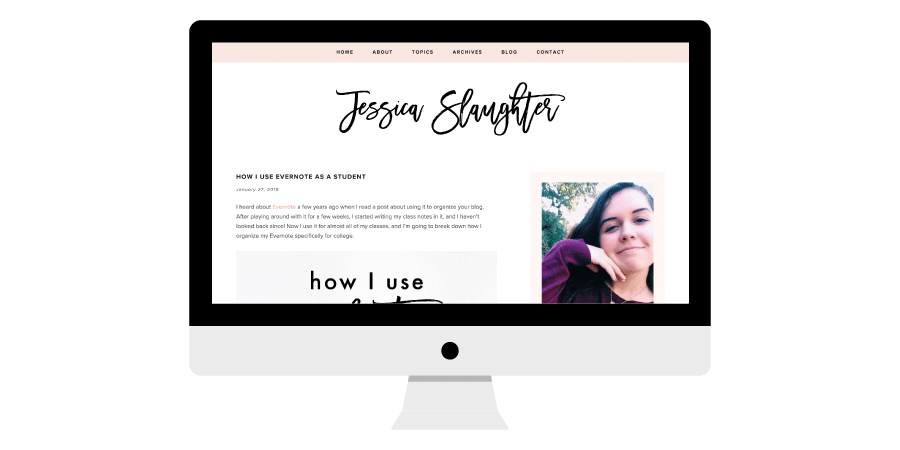
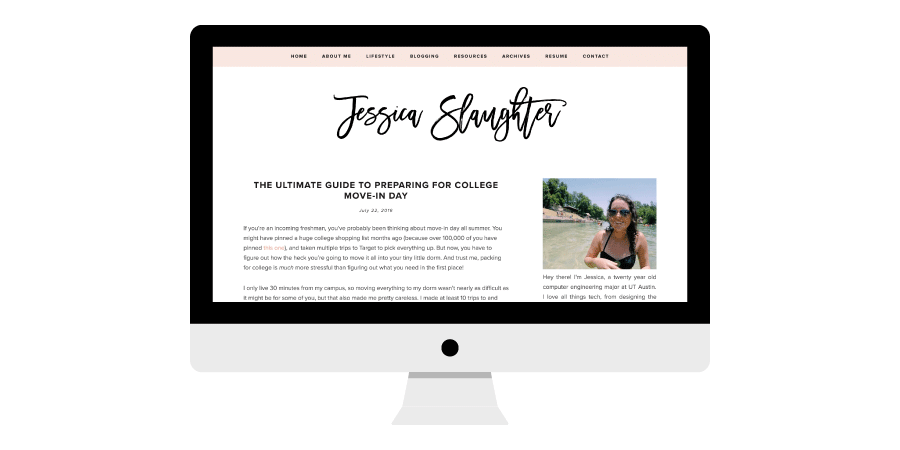
changed color scheme, updated info

diff --git a/index.html b/index.html
@@ -36,7 +36,7 @@
                     <li><div class="grow"><a href="http://instagram.com/jessicaslaughter" target="_blank"><i class="fa fa-instagram"></i></a></div></li>
                     <li><div class="grow"><a href="http://pinterest.com/jessslaughter_" target="_blank"><i class="fa fa-pinterest-p"></i></a></div></li>
                     <li><div class="grow"><a href="https://www.linkedin.com/in/jessicaslaughter" target="_blank"><i class="fa fa-linkedin"></i></a></div></li>
-                    <li><div class="grow"><a href="https://www.facebook.com/jessica.slaughter.944" target="_blank"><i class="fa fa-facebook"></i></a></div></li>
+                    <li><div class="grow"><a href="https://www.facebook.com/jessicaslaughterblog" target="_blank"><i class="fa fa-facebook"></i></a></div></li>
                     <li><div class="grow"><a href="/jessicaslaughter.pdf" target="_blank"><i class="fa fa-file-pdf-o"></i></a></div></li>
                     <li><div class="grow"><a href="mailto:jessicaslaughter@utexas.edu" target="_blank"><i class="fa fa-envelope"></i></a></div></li>
                 </ul>
@@ -60,9 +60,9 @@
         <section id="about-me">
             <div class="content">
                 <h2>About Me</h2>
-                <p>Hey there! I'm  Jessica, a third-year Computer Engineering major at UT Austin. I started my journey into coding as a 7th grader taking an intro to HTML class, which is probably why I'm primarily interested in front-end development. When I'm not stressing over which color scheme to use for this website, I love exciting students about entrepreneurship with <a href="http://austin.3daystartup.org/" target="_blank">3 Day Startup Austin</a> as a recruitment lead and attending workshops with the <a href="https://www.facebook.com/groups/dsgncoll/" target="_blank">Design Collective</a> and <a href="http://www.cs.utexas.edu/users/mad/" target="_blank">Mobile App Development</a>. </p>
+                <p>Hey there! I'm Jessica, a third-year Computer Engineering major at UT Austin. I started coding as a curious 7th grader taking an intro to HTML class, which is probably why I'm primarily interested in front-end development and design. Outside of class, I love exciting students about entrepreneurship with <a href="http://austin.3daystartup.org/" target="_blank">3 Day Startup Austin</a> as a recruitment lead and attending workshops with the <a href="https://www.facebook.com/groups/dsgncoll/" target="_blank">Design Collective</a> and <a href="http://www.cs.utexas.edu/users/mad/" target="_blank">Mobile App Development</a>. </p>
                     
-                <p>Along with trying to become <a href="https://jessicaslaughter.github.io/pinterest-progress" target="_blank">Pinterest famous</a>, one of my favorite things to do is help people through my blog-turned-job! I'm currently helping young women be successful in college and start blogs of their own at <a href="http://jessicaslaughter.co" target="_blank">JessicaSlaughter.co</a>.</p>
+                <p>Along with trying to become <a href="https://jessicaslaughter.github.io/pinterest-progress" target="_blank">Pinterest famous</a>, one of my favorite things to do is help people through my blog-turned-job! I'm currently helping young women be successful in college and start blogs of their own at <a href="http://jessicaslaughter.co" target="_blank">JessicaSlaughter.co</a>, a blog I've poured my heart into since the beginning of 2016 and use as a platform to further my skills and creativity.</p>
             </div>
         </section>
         <section id="projects">
@@ -70,7 +70,7 @@
                 <h2>Projects</h2><br>
                 <img src="img/jessicaslaughterblog.png"/>
                 <h3><a href="http://jessicaslaughter.co" target="_blank">JessicaSlaughter.co</a></h3>
-                <p>A merge of an old blog and new interests, I started <a href="http://jessicaslaughter.co" target="_blank">this blog</a> in January 2016 as a more casual environment to share college and lifestyle tips, while continuing to help others start their own blogs! I've since garnered an audience of around 50,000 monthly views and joined networks including <a href="http://collectivelyinc.com/" target="_blank">Collectively</a>, the <a href="http://www.hercampusmedia.com/services/influenceher-collective" target="_blank">InfluenceHer Collective</a>, and the <a href="http://app.joinsocialstars.com/" target="_blank">Socialstars Network</a>.</p>
+                <p>A merge of an old blog and new interests, I started <a href="http://jessicaslaughter.co" target="_blank">this blog</a> in January 2016 as a more casual environment to share college and lifestyle tips, while continuing to help others start their own blogs! I've since garnered an audience of young women around the world providing over 200,000 monthly views, and joined networks including <a href="http://collectivelyinc.com/" target="_blank">Collectively</a>, the <a href="http://www.hercampusmedia.com/services/influenceher-collective" target="_blank">InfluenceHer Collective</a>, and <a href="http://whoispollinate.com/" target="_blank">Pollinate Media</a>. I've also had the opportunity to collaborate with brands like Lenovo, Office Depot, and PayPal to create content that generates engagement and awareness for both my blog and their products.</p>
             </div>
         </section>
         <section id="experience">
@@ -81,8 +81,5 @@
                 <p>3 Day Startup is a 72-hour learning-by-doing workshop that teaches entrepreneurial skills to university students in an extreme hands-on environment. After participating in <a href="http://austin.3daystartup.org/" target="_blank">3 Day Startup Austin</a> as a freshman, I joined this organization under their tech recruitment team. I'm currently the lead of this team and responsible for promoting the event across campus, running an intense crash course, and interviewing potential participants.</p>
             </div>
         </section>
-        <footer>
-            <p><i class="fa fa-heart"></i></p>
-        </footer>
     </body>
 </html>

diff --git a/css/style.css b/css/style.css
@@ -10,7 +10,7 @@ nav {
 nav.pinned {
     position: fixed;
     top: 0;
-    background-color: #B2DBD7;
+    background-color: #e0ccc7;
     transition: 0.3s ease background-color;
     -webkit-transition: 0.2s ease background-color;
 }
@@ -28,7 +28,7 @@ nav.pinned {
 
 .hero {
     height: 100%;
-    background-color: #B2DBD7;
+    background-color: #e0ccc7;
     cursor: default;
 }
 
@@ -98,7 +98,7 @@ nav.pinned {
 }
 
 #about-me a {
-    color: #F4ACB7;
+    color: #222222;
 }
 
 /* Projects
@@ -106,7 +106,7 @@ nav.pinned {
 
 #projects {
     text-align: center;
-    background: #F2FACB;
+    background: #e0d5d1;
 }
 
 #projects p {
